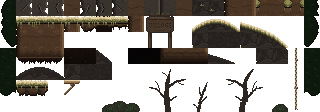
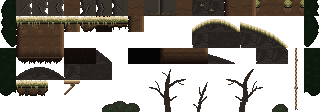
Art: remove the village sign (#595)
The sign came from the first mock images; the game has no village, and its
lettering was barely legible after the depth palette.

- forest-2: empty the three 2x2 placements in the Background layer
- terrain sheet: drop tiles 29, 30, 49, 50 and the keys B D E F H
- check_contrast: drop the sign from the tile scenery report
- ART_DIRECTION and DECISIONS: record the removal

Changed region(s): [[0.4375, 0.1339, 0.5625, 0.4286]]

diff --git a/tools/check_contrast.py b/tools/check_contrast.py
@@ -52,7 +52,7 @@ TERRAIN_GRID = 'art/terrain/forest/terrain.grid'
 COLOR_LINE = 3  # `color <key> <RRGGBB>`: the word count of a palette line
 COLOR_KEY = 1  # the word of a palette line that holds its key
 COLOR_HEX = 2  # the word of a palette line that holds its RRGGBB
-TERRAIN_DECOR_KEYS = frozenset('ABDEFHIJKuvw')  # D120: the props' contour and sign, the tufts and the canopy clump are decor, not ground
+TERRAIN_DECOR_KEYS = frozenset('AIJKuvw')  # D120: the props' contour, the tufts and the canopy clump are decor, not ground
 CHROMA_PERCENTILE = 0.9
 ALPHA_MIN = 128
 VIEW_HEIGHT = 360  # KimeriaGame.LOGICAL_H
@@ -279,8 +279,7 @@ NO_SPRITE = {
 }
 SPRITE_GROUPS = ('SpawnPoints', 'Collisions')
 # Tile-layer scenery reported against the map background (report only, #189): (row range, column range) in the tileset.
-TILE_SCENERY = {'sign': ((1, 2), (9, 10)),
-                'tile bush': ((4, 6), (6, 8)), 'dead tree': ((4, 6), (9, 16))}
+TILE_SCENERY = {'tile bush': ((4, 6), (6, 8)), 'dead tree': ((4, 6), (9, 16))}
 
 
 def linear(c):

diff --git a/docs/ART_DIRECTION.md b/docs/ART_DIRECTION.md
@@ -514,12 +514,15 @@ Rooms with high play must still be measured over the real layers before `RIM_SHE
   grey-teal ghosts over the new layers, lighter than all of them and over the decor ceiling (mean distance 0.22 to 0.33, mid 0.30 to
   0.33). They take D120's near leaf greens `2c3a28`, `2c3d2e`, `2c3724`: 0.090 to 0.172 (see Falling leaves). They stay in front of the
   mid layer, not in the foreground.
-- **Third-party tile scenery (#189):** `forest-terrain` and the new layers replace `Tileset.png`, deleted with D112. Its props (the village
-  sign, the bare trees, the floor tufts, recoloured dark moss `3a5a50`/`2a443f`/`4c7064` because the ochre was the honey fungus's reserved hue) are copied pixel for pixel into the terrain sheet at their old tile ids (`prop-<id>` in
-  `terrain.grid`) and stay reported, not gated, until they are redrawn ([#189](https://github.com/jlogicgames/edgard_in_kimeria/issues/189)).
-  Since [D120](DECISIONS.md#d120-depth-palette-the-near-layers-take-dark-real-colours-the-scenery-turns-bluer-lighter-and-greyer-with-depth-236-2026-11-21) their colours are in the depth palette: the violet contour `222034` is bark `2d2621`, the sign a dark wood ramp
-  `2d1f13` to `554638` (was ochre `634921` to `b59a73`), the tufts moss `222c1d / 2c3627 / 38412f`; measured outline 0.150 (sign),
-  0.197 (tufts), 0.164 (dead trees), all inside the decor ceilings.
+- **Third-party tile scenery (#189):** `forest-terrain` and the new layers replace `Tileset.png`, deleted with D112. Its props (the bare
+  trees, the floor tufts, recoloured dark moss `3a5a50`/`2a443f`/`4c7064` because the ochre was the honey fungus's reserved hue) are
+  copied pixel for pixel into the terrain sheet at their old tile ids (`prop-<id>` in `terrain.grid`) and stay reported, not gated, until
+  they are redrawn ([#189](https://github.com/jlogicgames/edgard_in_kimeria/issues/189)).
+  Since [D120](DECISIONS.md#d120-depth-palette-the-near-layers-take-dark-real-colours-the-scenery-turns-bluer-lighter-and-greyer-with-depth-236-2026-11-21) their colours are in the depth palette: the violet contour `222034` is bark `2d2621`, the tufts moss
+  `222c1d / 2c3627 / 38412f`; measured outline 0.199 (tufts), 0.164 (dead trees), both inside the decor ceilings.
+  The sheet's village sign (tile ids 29, 30, 49, 50) is removed with its three placements in forest-2
+  ([#595](https://github.com/jlogicgames/edgard_in_kimeria/issues/595), 2026-11-25): it came from the first mock images, the game has no
+  village, and its lettering could not be read over the depth palette.
 
 ### 6. Author answers (2026-11-19)
 
@@ -1446,7 +1449,7 @@ Measured 2026-11-16 (outline, worst placement; `python3 tools/check_contrast.py`
 | Active: mechanisms | lever 0.47 (both frames; was 0.25 to 0.32, below the floor in front of the forest-2 rubble), ladder 0.43, vertical wall 0.42, carried torch 0.39, platform 0.37, lift 0.44 (the escalator's straw top, 2026-11-21, #236; was 0.37), stone 0.30 |
 | Active: enemies and hero | hero 0.35 (D79, both facings; the old 48 px hero was 0.46), RedMob 0.32, Boss 0.30, Bat 0.29, YellowMob 0.28 (2026-11-21, on the forest layers with the moon rim: hero 0.56, the redrawn RedMob 0.70 over its four idle frames with body 0.45, below the hero's 0.56, and the redrawn Bat 0.59 over its four flap frames; the redrawn Boss 0.72 over its four THRONE frames with body 0.47 and the redrawn YellowMob 0.56 over its four IDLE frames with body 0.45, both bodies below the hero's 0.56) |
 | Decor (after the recolour) | bush 0.12 to 0.18 (was 0.31 to 0.39), look-alike 0.16 (was 0.45), hanging vine 0.06 to 0.16 (was 0.47 to 0.57) |
-| Background (tile layer) | rocks 0.29, signs 0.37, dead trees 0.37, tile bushes 0.36: louder than the ceiling. This is third-party art, reported and not gated until it is replaced ([#189](https://github.com/jlogicgames/edgard_in_kimeria/issues/189)). |
+| Background (tile layer) | rocks 0.29, dead trees 0.37, tile bushes 0.36: louder than the ceiling (the village sign, 0.37, is gone, [#595](https://github.com/jlogicgames/edgard_in_kimeria/issues/595)). This is third-party art, reported and not gated until it is replaced ([#189](https://github.com/jlogicgames/edgard_in_kimeria/issues/189)). |
 
 The decor recolour changed only the palette lines of `art/objects/decor/{bush,lookalike,vine}.grid`; the drawings, frames
 and the D64 brush trigger are unchanged. The lever (then the author's wall-mounted 3/4 drawing, `art/objects/lever-pixel.png`) gained a 1 px

diff --git a/docs/DECISIONS.md b/docs/DECISIONS.md
@@ -1802,6 +1802,7 @@ Times are pinned within 0.1 s by the tests; every route is well inside the 20 s 
 - **Known gap:** the third-party tile scenery is louder than the background ceiling (rocks 0.29, signs, dead trees
   and tile bushes 0.36 to 0.37). The gate reports it without gating; replacing the tileset is
   [#189](https://github.com/jlogicgames/edgard_in_kimeria/issues/189) (its checklist carries the D76 background ceiling).
+- **Update ([#595](https://github.com/jlogicgames/edgard_in_kimeria/issues/595), 2026-11-25):** the village sign is removed from the tileset and from forest-2, so the gate no longer reports it.
 - **Not verified:** the recoloured decor in the running game, by the author's eye (desktop and web): tracked in
   [#368](https://github.com/jlogicgames/edgard_in_kimeria/issues/368).
 - **Update (playtest 2, [#563](https://github.com/jlogicgames/edgard_in_kimeria/issues/563), 2026-11-21, [D116](#d116-second-external-playtest-findings-and-direction-563-2026-11-21)):** trees and bushes are drawn opaque and clear in another palette, a little paler or darker than the active elements, and the glows are replaced by softer pixelfx effects, so the tier numbers are re-measured; this decision will be revised by issues [#555](https://github.com/jlogicgames/edgard_in_kimeria/issues/555), [#544](https://github.com/jlogicgames/edgard_in_kimeria/issues/544).
@@ -4114,6 +4115,11 @@ Times are pinned within 0.1 s by the tests; every route is well inside the 20 s 
   decor ceilings now (the sign was 0.223 body before). `parallax_mock.py --check --game`: passes, the same output as before (the cover
   rules read alpha, not colour).
 - **Not changed:** no threshold or tolerance; the drawings and the foreground placements; the sky, the moon and the clouds.
+- **Update (author, 2026-11-25, [#595](https://github.com/jlogicgames/edgard_in_kimeria/issues/595)):** the village sign is removed instead of
+  redrawn: tile ids 29, 30, 49 and 50 are empty in `terrain.grid` (its wood ramp keys `B D E F H` went with them) and its three placements
+  in forest-2 are gone. It came from the first mock images, the game has no village, and its lettering could not be read over these
+  layers. The sign figures above record the state before.
+
 ## D121. The wall jump is removed: walls are solid and cannot be grabbed (#546, 2026-11-21)
 
 - **Status:** Accepted (author, 2026-11-21, [D116](#d116-second-external-playtest-findings-and-direction-563-2026-11-21) direction, playtest 2 F12). Settles [D18](#d18-directional-controls-steppe-double-jump-and-replay-target)'s open question
